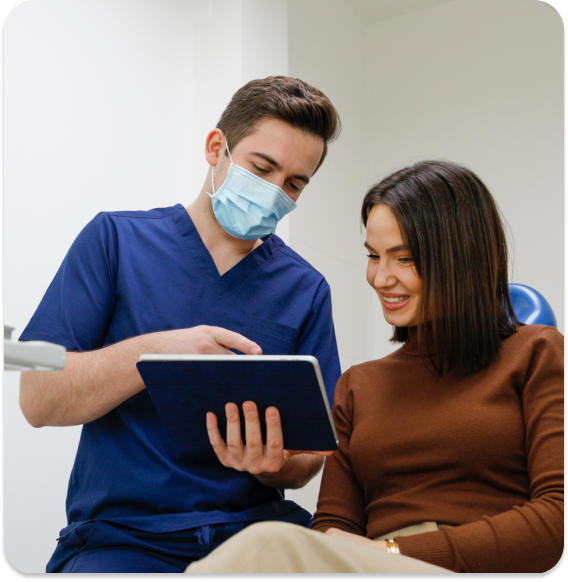
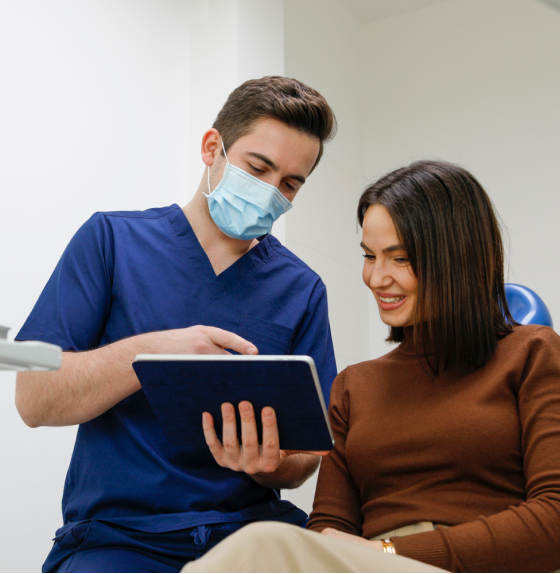
Changed images that STILL had drop shadows

Changed region(s): [[0.0, 0.0, 1.0, 1.0], [0.0607, 0.5035, 0.0911, 0.5331]]

diff --git a/styles/style.css b/styles/style.css
@@ -65,6 +65,7 @@ button {
   margin-top: 5rem;
   box-shadow: var(--shadow-large);
   font-size: 1rem;
+  font-weight: 600;
   padding: 0 1.5rem;
   color: #F5FBFF;
   border-radius: 20px;
@@ -534,19 +535,19 @@ p {
 .hero-section-left > .hero-text-hun {
   padding-right: 5rem;
 }
-.hero-section-right > img {
-  margin-top: 8rem;
-  width: 70%;
-  position: relative;
-  float: right;
+.hero-section-left > div > button, .hero-section-left a {
+  margin-top: 2rem;
 }
-.hero-section .hero-hun-img > img {
-  width: 90%;
+.hero-section-right > img {
   border-radius: 20px;
   -webkit-border-radius: 20px;
   -moz-border-radius: 20px;
   -ms-border-radius: 20px;
   -o-border-radius: 20px;
+  margin-top: 8rem;
+  width: 75%;
+  position: relative;
+  float: right;
 }
 .hero-section .hero-secondary-btn {
   margin-left: 1.5rem;
@@ -1033,7 +1034,10 @@ p {
   -ms-border-radius: 20px;
   -o-border-radius: 20px;
   float: right;
-  width: 70%;
+  width: 65%;
+}
+.consultation-section > div > button {
+  margin-top: 7rem;
 }
 
 .consultation-hu {

diff --git a/assets/styles/style.scss b/assets/styles/style.scss
@@ -119,6 +119,7 @@ button {
    margin-top: 5rem;
    box-shadow: var(--shadow-large);
    font-size: 1rem;
+   font-weight: 600;
    padding: 0 1.5rem;
    color: $light-blue;
 
@@ -616,18 +617,18 @@ p {
       &>.hero-text-hun {
          padding-right: 5rem;
       }
+
+      &>div>button,a {
+         margin-top: 2rem;
+      }
    }
 
    &-right>img {
+      @include borderrad;
       margin-top: 8rem;
-      width: 70%;
+      width: 75%;
       position: relative;
       float: right;
-   }
-
-   .hero-hun-img>img {
-      width: 90%;
-      @include borderrad;
    }
 
    & .hero-secondary-btn {
@@ -1146,7 +1147,11 @@ p {
    &>div>img {
       @include borderrad;
       float: right;
-      width: 70%;
+      width: 65%;
+   }
+
+   &>div>button {
+      margin-top: 7rem;
    }
 }
 
